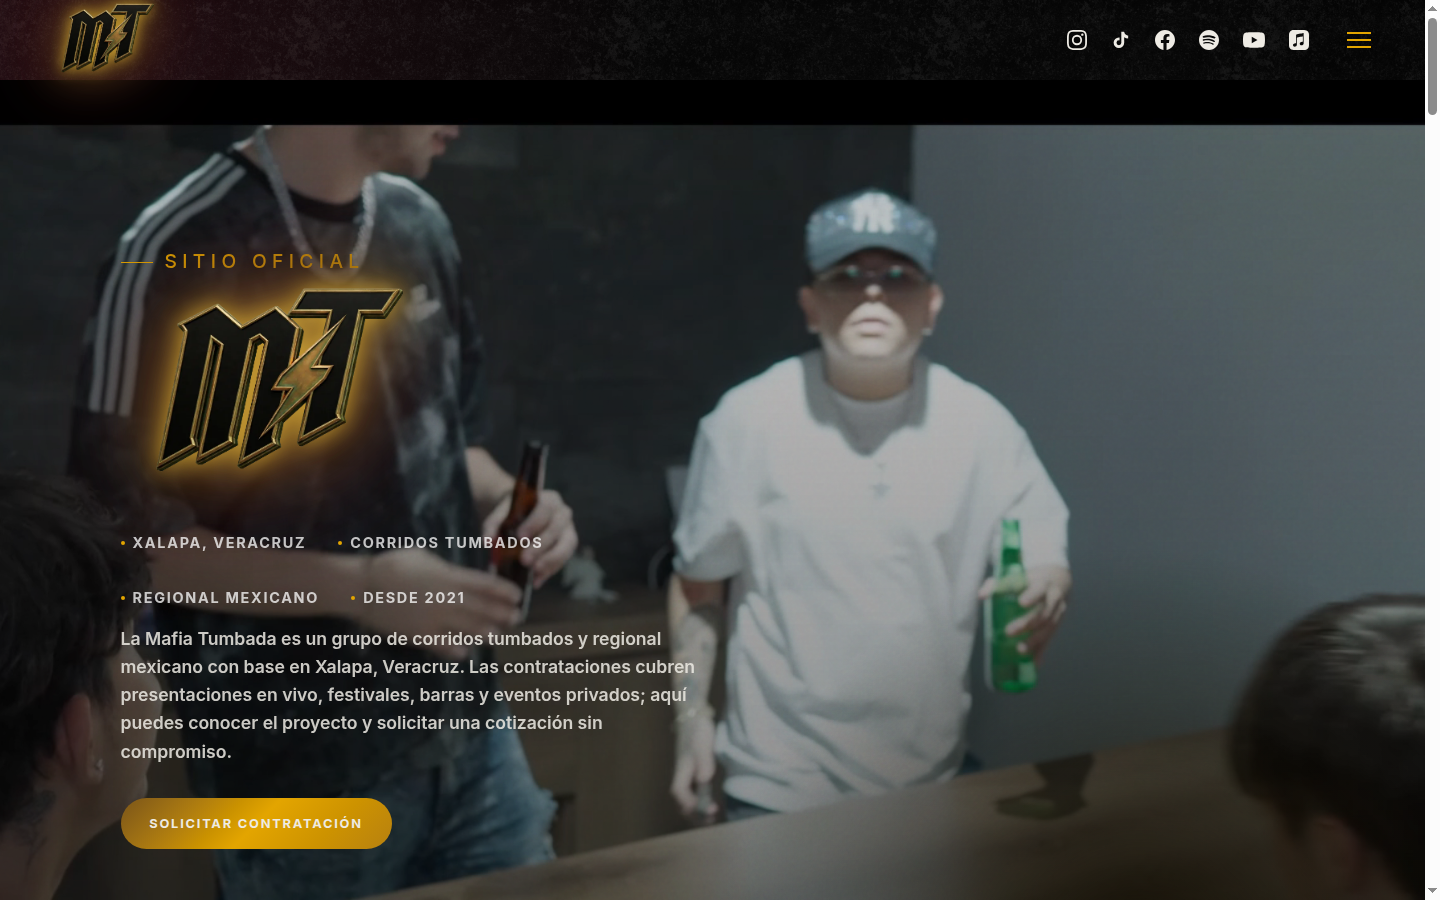
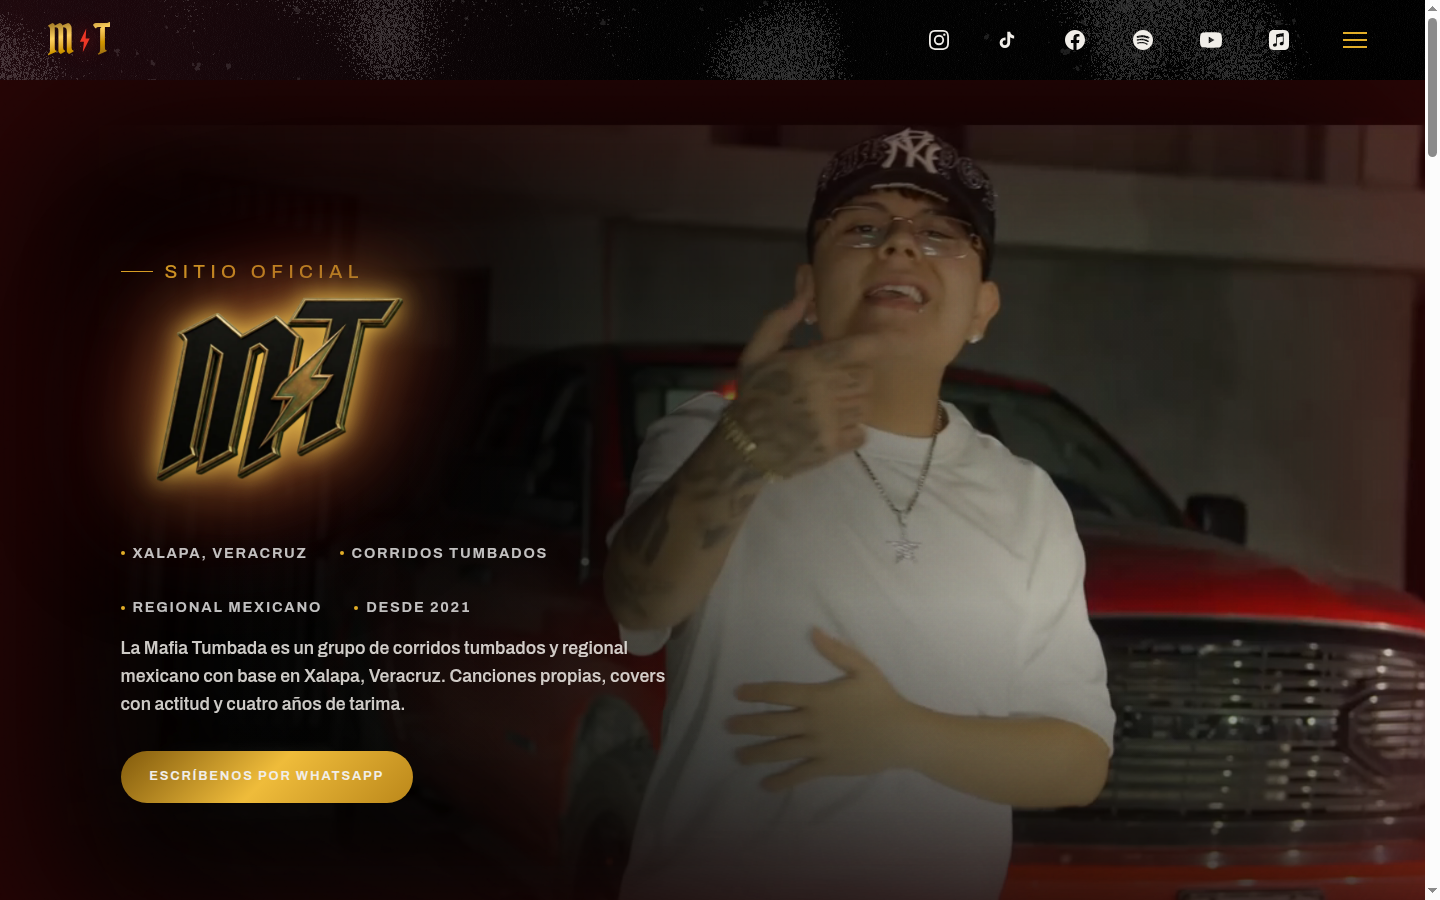
content: mafia tumbada is now a static page
The band's site dropped the Hono booking endpoint — bookings go through a
WhatsApp button now. Rewrote both case studies around music, videos, the
band and that CTA, and recaptured the screenshot.

Claude-Session: https://claude.ai/code/session_017wrPUDZ2XR4yBsK4kHTYz5

diff --git a/web/src/content/projects/es/mafia-tumbada.md b/web/src/content/projects/es/mafia-tumbada.md
@@ -3,8 +3,8 @@ name: Mafia Tumbada
 client: La Mafia Tumbada — Xalapa
 year: 2026
 tagline: Donde se contrata al grupo, no solo donde se escucha.
-summary: Sitio oficial de un grupo de corridos tumbados de Xalapa — el proyecto, las plataformas y un formulario para solicitar contrataciones de tocadas, festivales y eventos privados.
-stack: ["Astro", "Hono", "TypeScript", "Drizzle ORM", "Zod", "Resend"]
+summary: Sitio oficial de un grupo de corridos tumbados de Xalapa — música, videos, la banda y un botón de WhatsApp para contratarlos.
+stack: ["Astro", "TypeScript"]
 liveUrl: https://mafiatumbada.com
 screenshot: ../../../assets/shots/mafia.png
 featured: false
@@ -16,19 +16,20 @@ order: 4
 La Mafia Tumbada es un grupo de corridos tumbados y regional mexicano de Xalapa, Veracruz, activo
 desde 2021. Su música está en Spotify, Apple Music y YouTube; su público está en Instagram y TikTok.
 
-Ninguna de esas plataformas está hecha para recibir una contratación. Quien quiere al grupo en un festival, una barra o un evento privado
-llega a un perfil y tiene que adivinar a quién escribirle.
+Ninguna de esas plataformas está hecha para recibir una contratación. Quien quiere al grupo en un
+festival, una barra o un evento privado llega a un perfil y tiene que adivinar a quién escribirle.
 
 ## Qué construí
 
-Un sitio oficial que hace lo único que las plataformas no hacen: recibir una solicitud de
-contratación. El visitante encuentra el proyecto y todas las plataformas en un lugar, y un camino
-directo para pedir cotización de presentaciones, festivales y eventos privados, que llega por correo
-con Resend.
+Un sitio oficial que junta todo lo que alguien necesita para decidir y contratar: el catálogo de
+sencillos con enlace directo a la plataforma donde está cada uno, los videos, las fotos de tarima,
+quién es cada integrante y de qué va el proyecto. Todo termina en el mismo lugar: un botón de
+WhatsApp con el mensaje ya escrito y el teléfono del grupo.
 
-Astro para el sitio, Hono para el endpoint de contrataciones y Zod validando lo que entra.
+Sin formulario y sin servidor: el sitio es estático, la conversación pasa donde el manager ya
+responde. Hecho con Astro.
 
 ## Resultado
 
-El manager tiene un solo link que repartir, y las solicitudes llegan como correo en lugar de un DM
-enterrado bajo respuestas de fans.
+El grupo tiene un solo link que repartir, y la solicitud de contratación llega como mensaje directo
+al teléfono en lugar de un DM enterrado bajo respuestas de fans.

diff --git a/web/src/content/projects/en/mafia-tumbada.md b/web/src/content/projects/en/mafia-tumbada.md
@@ -3,8 +3,8 @@ name: Mafia Tumbada
 client: La Mafia Tumbada — Xalapa
 year: 2026
 tagline: Where the band gets booked, not just heard.
-summary: Official site for a corridos tumbados group from Xalapa — the project, the platforms, and a booking request form for live shows, festivals and private events.
-stack: ["Astro", "Hono", "TypeScript", "Drizzle ORM", "Zod", "Resend"]
+summary: Official site for a corridos tumbados group from Xalapa — music, videos, the band, and a WhatsApp button to book them.
+stack: ["Astro", "TypeScript"]
 liveUrl: https://mafiatumbada.com
 screenshot: ../../../assets/shots/mafia.png
 featured: false
@@ -17,18 +17,20 @@ La Mafia Tumbada is a corridos tumbados and regional mexicano group from Xalapa,
 since 2021. Their music is on Spotify, Apple Music and YouTube; their audience is on Instagram and
 TikTok.
 
-None of those platforms is built to take a booking. Someone who wants the band at a festival, a bar or a private party lands
-on a profile and has to guess who to message.
+None of those platforms is built to take a booking. Someone who wants the band at a festival, a bar
+or a private party lands on a profile and has to guess who to message.
 
 ## What I built
 
-An official site that does the one thing the platforms don't: takes a booking request. Visitors get
-the project and every platform in one place, and a direct path to request a quote for live shows,
-festivals and private events, delivered as email through Resend.
+An official site that gathers everything a promoter needs to decide and book: the catalogue of
+singles, each linking straight to the platform it lives on, the videos, stage photos, who's in the
+band and what the project is about. It all ends in the same place — a WhatsApp button with the
+message pre-written, and the band's phone number.
 
-Astro for the site, Hono for the booking endpoint, with Zod validating what comes in.
+No form and no server: the site is static, and the conversation happens where the manager already
+replies. Built with Astro.
 
 ## Result
 
-The band's manager has a single link to hand out, and booking requests arrive as email instead of
-as a DM that gets buried under fan replies.
+The band has a single link to hand out, and booking requests arrive straight on the phone instead of
+as a DM buried under fan replies.
